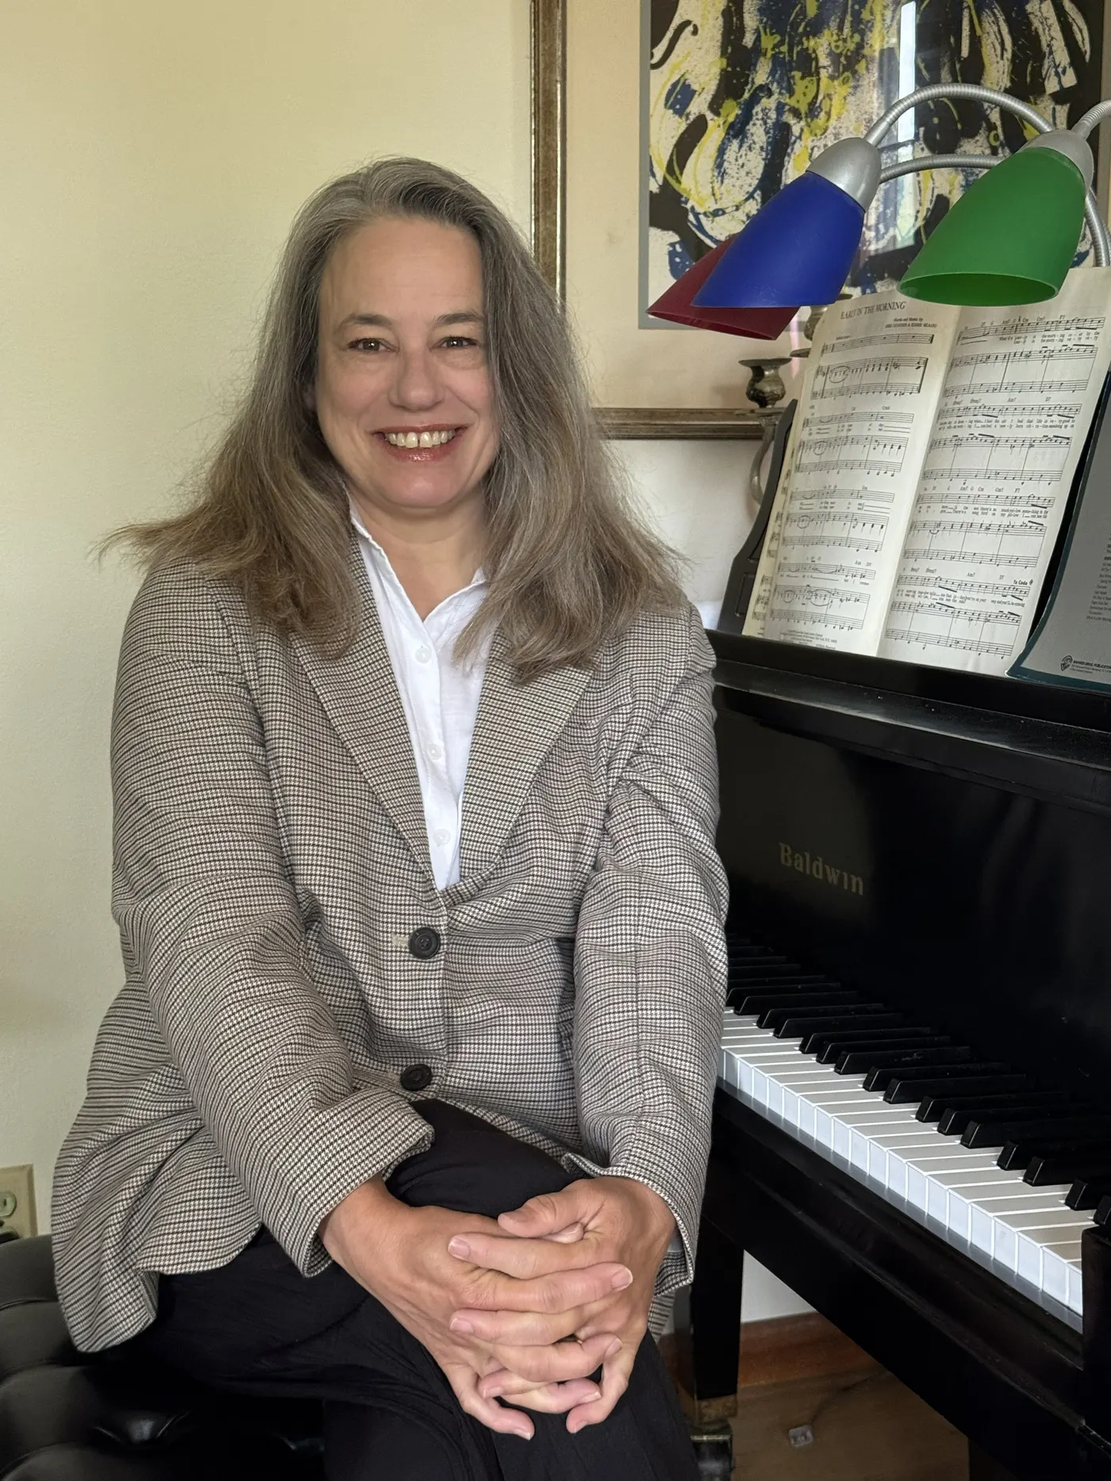
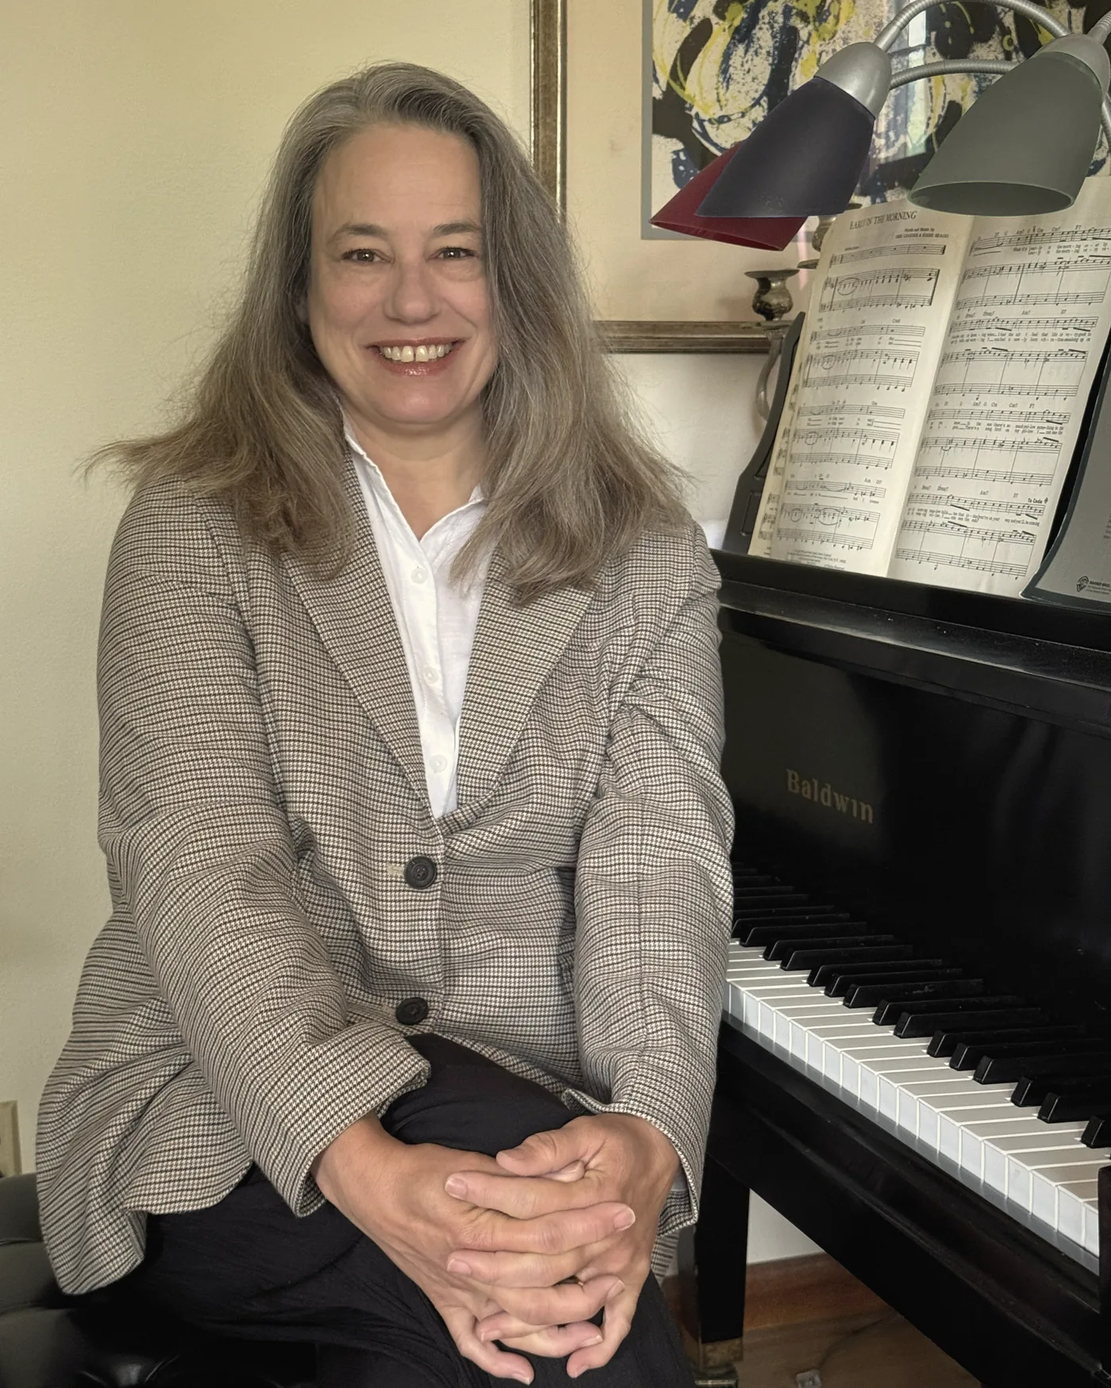
Premium, mature typography; calmer headings; graded photos
- Cormorant Garamond 500 (sentence case, italic accent phrase) + Jost for text/UI
- Headings smaller and lighter; they flow as sentences and sit in 2–3 lines (measured)
- Fix clipped descenders/italics: reveal masks get breathing room
- Accent colour comes from the italic class only (split-line clones broke nth-child rules)
- scripts/grade-photos.py: mutes the lamps behind Lisa, warm grade, better crops,
  2x upscale for the video stills; regraded portrait and posters

Claude-Session: https://claude.ai/code/session_01HKM1nU3q4pWCU1c7UDQXLL

diff --git a/src/styles/type.css b/src/styles/type.css
@@ -1,11 +1,10 @@
 /* ─────────────────────────── type system ───────────────────────────
-   From the client's references:
-   · DISPLAY  Fraunces 800, SOFT 100 — heavy, rounded serif, sentence case ("gorgeous")
-   · ACCENT   Fraunces italic 500, WONK on — the elegant italic line ("beautiful")
-   · TEXT/UI  Bricolage Grotesque — bold, characterful grotesk ("Antarctica")
-   · LABEL    Bricolage 500, small capitals, wide tracking ("BATANGAS") */
+   Cormorant Garamond 500 for headings — graceful, mature, never shouted:
+   sentence case, modest sizes, generous leading so headings sit in 2–3 lines
+   and nothing (descenders, italic swashes) is ever clipped. The accent phrase
+   of each heading is in Cormorant italic. Jost for everything you read and tap. */
 
-body { font-family: var(--sans); font-weight: 400; letter-spacing: -.01em; font-variation-settings: 'opsz' 14; }
+body { font-family: var(--sans); font-weight: 400; letter-spacing: 0; font-size: clamp(1.02rem, .98rem + .2vw, 1.12rem); }
 em, i, cite { font-style: normal; }
 
 /* DISPLAY */
@@ -13,66 +12,68 @@ em, i, cite { font-style: normal; }
 .timer__time, .metro__bpm span, .stat dd, .finale__beat, .menu__key, .pkey__meter, .foot__giant,
 .aud__name, .wcard__t, .first__after-t, .recital__after p, .timer__done-t, .marquee__i, .brand__name, .foot__wm,
 .programme__t strong, .lisa__quote, .string__note, .mini__l, .aud__n, .bar__n, .programme__n, .inquire__steps li > span, .offer__t {
-  font-family: var(--serif); font-weight: 800; font-style: normal; font-stretch: normal;
-  font-variation-settings: var(--soft); text-transform: none; letter-spacing: -.03em;
+  font-family: var(--serif); font-weight: 500; font-style: normal; font-stretch: normal;
+  font-variation-settings: normal; text-transform: none; letter-spacing: -.01em; font-variant-numeric: lining-nums;
 }
-.display { line-height: .95; }
-.hero__title { font-size: clamp(3.4rem, 1.4rem + 7.2vw, 9.2rem); line-height: .92; max-width: none; }
-.finale__t { font-size: clamp(3.2rem, 1.2rem + 5.6vw, 7.2rem); line-height: .94; max-width: 12ch; }
-.display--l { font-size: clamp(2.8rem, 1.3rem + 4.6vw, 6.2rem); line-height: .95; }
-.display--m { font-size: clamp(2.4rem, 1.2rem + 3.4vw, 4.8rem); line-height: .98; }
-.jcap__t { font-size: clamp(2.6rem, 1.3rem + 4vw, 5.6rem); line-height: .94; }
-.about__statement { font-size: clamp(2.1rem, 1.1rem + 3.3vw, 4.6rem); line-height: 1; max-width: 24ch; font-weight: 700; }
+/* headings flow as sentences (2–3 lines) instead of one phrase per line */
+.hl__line { display: inline; }
+.display { line-height: 1.08; text-wrap: balance; }
+.hero__title { font-size: clamp(2.8rem, 1.5rem + 4.4vw, 6.4rem); line-height: 1.04; max-width: 12ch; }
+.finale__t { font-size: clamp(2.6rem, 1.4rem + 3.8vw, 5.4rem); line-height: 1.06; max-width: 13ch; }
+.display--l { font-size: clamp(2.3rem, 1.4rem + 2.9vw, 4.4rem); line-height: 1.08; max-width: 18ch; }
+.display--m { font-size: clamp(2.1rem, 1.3rem + 2.3vw, 3.6rem); line-height: 1.1; max-width: 18ch; }
+.recital__head .display, .why__head .display { max-width: 22ch; }
+.jcap__t { font-size: clamp(2.2rem, 1.4rem + 2.6vw, 4.2rem); line-height: 1.08; }
+.about__statement { font-size: clamp(1.9rem, 1.2rem + 2.1vw, 3.3rem); line-height: 1.16; max-width: 32ch; }
 
-/* the accent line of every heading: the elegant italic */
-.hl__line.is-italic { font-style: italic; font-weight: 500; font-variation-settings: var(--soft-italic); letter-spacing: -.02em; color: var(--ochre-display); }
+/* the accent phrase */
+.hl__line.is-italic { font-style: italic; font-weight: 500; letter-spacing: -.005em; color: var(--ochre-display); }
 .sec--dark .hl__line.is-italic, .sec--black .hl__line.is-italic, .pcard .hl__line.is-italic { color: var(--gold); }
-.sec--wine .hl__line.is-italic { color: var(--black); opacity: .78; }
+.sec--wine .hl__line.is-italic { color: var(--black); opacity: .8; }
 
-.mpanel__n { font-size: clamp(5rem, 10vw, 9rem); line-height: .82; }
-.mpanel__t { font-size: clamp(1.9rem, 3vw, 3rem); line-height: 1; }
-.pcard__name { font-size: clamp(2.2rem, 3.4vw, 3.4rem); line-height: .98; }
-.mstep__q { font-size: clamp(2.2rem, 3.8vw, 3.6rem); line-height: 1; }
-.mresult__name { font-size: clamp(2.2rem, 3.6vw, 3.4rem); line-height: 1; }
-.timer__time { font-size: clamp(4.4rem, 8vw, 7rem); line-height: .85; font-variant-numeric: lining-nums tabular-nums; }
-.metro__bpm span { font-size: 4rem; line-height: .9; display: block; }
-.stat dd { font-size: clamp(3rem, 4.6vw, 4.4rem); line-height: .9; }
-.finale__beat { font-size: clamp(1.7rem, 2.8vw, 2.7rem); }
-.finale__beat span:nth-child(2) { font-style: italic; font-weight: 500; font-variation-settings: var(--soft-italic); }
-.menu__key { font-size: clamp(2.4rem, 10vw, 3.4rem); line-height: 1.05; }
-.pkey__meter { font-size: 2.2rem; }
-.aud__name, .wcard__t { font-size: clamp(1.5rem, 2vw, 2rem); line-height: 1.02; font-weight: 700; }
-.offer__t { font-size: 1.15rem; line-height: 1.2; font-weight: 700; letter-spacing: -.015em; }
-.first__after-t, .recital__after p, .timer__done-t { font-size: clamp(1.6rem, 2.4vw, 2.3rem); line-height: 1.05; font-style: italic; font-weight: 500; font-variation-settings: var(--soft-italic); }
-.programme__t strong { font-size: 1.5rem; line-height: 1; }
-.lisa__quote { font-size: clamp(1.6rem, 2.3vw, 2.2rem); line-height: 1.1; font-style: italic; font-weight: 500; font-variation-settings: var(--soft-italic); }
-.aud__n, .bar__n, .programme__n, .inquire__steps li > span { font-size: 1.2rem; font-style: italic; font-weight: 500; font-variation-settings: var(--soft-italic); color: var(--ochre); }
+.mpanel__n { font-size: clamp(4.2rem, 8vw, 7rem); line-height: .9; }
+.mpanel__t { font-size: clamp(1.9rem, 2.6vw, 2.6rem); line-height: 1.1; }
+.pcard__name { font-size: clamp(2rem, 2.8vw, 2.8rem); line-height: 1.05; }
+.mstep__q { font-size: clamp(2rem, 3vw, 3rem); line-height: 1.1; }
+.mresult__name { font-size: clamp(2rem, 3vw, 2.9rem); line-height: 1.08; }
+.timer__time { font-size: clamp(4rem, 7vw, 6.2rem); line-height: .95; font-variant-numeric: lining-nums tabular-nums; }
+.metro__bpm span { font-size: 3.8rem; line-height: 1; display: block; }
+.stat dd { font-size: clamp(2.8rem, 4vw, 3.8rem); line-height: 1; }
+.finale__beat { font-size: clamp(1.6rem, 2.4vw, 2.3rem); }
+.finale__beat span:nth-child(2) { font-style: italic; }
+.menu__key { font-size: clamp(2.2rem, 9vw, 3rem); line-height: 1.15; }
+.pkey__meter { font-size: 2rem; }
+.aud__name, .wcard__t { font-size: clamp(1.5rem, 1.9vw, 1.9rem); line-height: 1.12; font-weight: 600; }
+.offer__t { font-size: 1.3rem; line-height: 1.2; font-weight: 600; letter-spacing: 0; }
+.first__after-t, .recital__after p, .timer__done-t { font-size: clamp(1.6rem, 2.2vw, 2.1rem); line-height: 1.15; font-style: italic; }
+.programme__t strong { font-size: 1.5rem; line-height: 1.1; font-weight: 600; }
+.lisa__quote { font-size: clamp(1.6rem, 2.2vw, 2.1rem); line-height: 1.22; font-style: italic; }
+.aud__n, .bar__n, .programme__n, .inquire__steps li > span { font-size: 1.3rem; font-style: italic; color: var(--ochre); }
 .sec--dark .aud__n, .sec--black .programme__n { color: var(--gold); }
-.mini__l { font-size: 1.4rem; }
+.mini__l { font-size: 1.4rem; font-weight: 600; }
 .string__note { font-size: 2.4rem; }
-/* marquee alternates "gorgeous" and "beautiful" */
-.marquee__i:nth-child(4n+3) { font-style: italic; font-weight: 500; font-variation-settings: var(--soft-italic); }
+.marquee__i:nth-child(4n+3) { font-style: italic; }
 
-/* wordmark: heavy serif name over a widely spaced label, like the references */
-.brand__name { font-size: 1.5rem; line-height: .9; letter-spacing: -.025em; }
-.brand__desc { margin-top: 5px; font-size: 8.5px; font-weight: 500; letter-spacing: .38em; }
-.foot__wm { font-size: 2.4rem; letter-spacing: -.03em; }
-.foot__wm span { letter-spacing: .38em; }
+/* wordmark */
+.brand__name { font-size: 1.6rem; line-height: .9; letter-spacing: .01em; font-weight: 600; }
+.brand__desc { margin-top: 6px; font-size: 8.5px; font-weight: 500; letter-spacing: .36em; }
+.foot__wm { font-size: 2.6rem; letter-spacing: .01em; font-weight: 600; }
+.foot__wm span { letter-spacing: .36em; }
 
-/* TITLE — UI headings in the grotesk */
+/* TITLE — UI-level headings in Jost */
 .pkey__name, .lid__q, .bar__q, .mopt > span, .hero__watch-t, .mkey__name, .inquiry__chosen strong, .trust dd,
 .inquiry__ok, .pcard__short, .metro__term, .pcard__amt {
-  font-family: var(--sans); font-weight: 600; font-style: normal; font-stretch: normal; letter-spacing: -.015em; font-variation-settings: normal; text-transform: none;
+  font-family: var(--sans); font-weight: 500; font-style: normal; font-stretch: normal; letter-spacing: 0; font-variation-settings: normal; text-transform: none;
 }
-.lid__q, .bar__q { font-size: clamp(1.08rem, 1.3vw, 1.25rem); }
-.mopt > span { font-size: clamp(1.05rem, 1.3vw, 1.2rem); }
-.mkey__name { font-size: clamp(.95rem, 1.2vw, 1.15rem); }
-.pkey__name { font-size: 1.15rem; }
-.trust dd { font-size: 1rem; }
+.lid__q, .bar__q { font-size: clamp(1.08rem, 1.3vw, 1.22rem); }
+.mopt > span { font-size: clamp(1.05rem, 1.3vw, 1.18rem); }
+.mkey__name { font-size: clamp(.95rem, 1.2vw, 1.12rem); }
+.pkey__name { font-size: 1.12rem; }
+.trust dd { font-size: 1.02rem; }
 .pcard__short { color: var(--gold); }
-.metro__term { text-transform: uppercase; letter-spacing: .12em; font-size: .8rem; }
+.metro__term { text-transform: uppercase; letter-spacing: .14em; font-size: .78rem; }
 
-/* LABEL — small wide capitals */
+/* LABEL — small wide capitals (labels only; never headings) */
 .kicker, .kicker__t, .trust dt, .markers dt, .stat dt, .pcard__facts dt, .pcard__meter, .pcard__unit, .mpanel__lisa > span:first-child,
 .mkey__n, .jcap__n, .matcher__count, .mresult__k, .mresult__sum, .tool__t, .chip, .metro__bpm small, .first__prompt, .first__hint,
 .tool__note, .audiences__t, .lisa__cap, .packages__foot, .inquiry__chosen span, .ff > span, .ff legend,
@@ -80,16 +81,21 @@ em, i, cite { font-style: normal; }
 .screen__label, .screen__play, .hero__cue, .review, .mini kbd, .brand__desc, .wcard__n, .why__media figcaption {
   font-family: var(--sans); font-stretch: normal; font-variation-settings: normal; font-variant-numeric: tabular-nums; font-style: normal;
 }
-.kicker { font-weight: 500; letter-spacing: .2em; font-size: .74rem; }
+.kicker { font-weight: 500; letter-spacing: .18em; font-size: .74rem; }
 .trust dt, .markers dt, .pcard__facts dt, .inquire__contact dt, .foot__contact dt, .ff > span, .ff legend, .tool__t, .audiences__t,
 .mpanel__lisa > span:first-child, .mresult__k, .first__prompt, .lisa__cap, .hero__watch-t small,
 .mkey__n, .jcap__n, .matcher__count, .wcard__n, .pcard__meter, .metro__bpm small, .menu__n, .chip {
-  font-weight: 500; letter-spacing: .16em;
+  font-weight: 500; letter-spacing: .14em;
 }
 .first__hint, .tool__note, .packages__foot, .mresult__sum, .screen__label, .foot__base, .menu__contact { font-weight: 400; letter-spacing: 0; }
-.lede { font-family: var(--sans); font-weight: 400; letter-spacing: -.015em; font-size: clamp(1.02rem, .95rem + .3vw, 1.2rem); line-height: 1.55; }
-.lisa__bio { font-size: clamp(1rem, .95rem + .25vw, 1.15rem); }
+.lede { font-family: var(--sans); font-weight: 400; letter-spacing: 0; font-size: clamp(1.05rem, .98rem + .3vw, 1.22rem); line-height: 1.6; }
+.lisa__bio { font-size: clamp(1.02rem, .98rem + .25vw, 1.15rem); line-height: 1.7; }
 
 /* buttons */
-.btn { font-family: var(--sans); font-weight: 600; letter-spacing: .1em; text-transform: uppercase; font-size: .78rem; }
-.btn--line { letter-spacing: .1em; }
+.btn { font-family: var(--sans); font-weight: 500; letter-spacing: .12em; text-transform: uppercase; font-size: .78rem; }
+.btn--line { letter-spacing: .12em; }
+
+/* Reveal masks (SplitText) must never crop descenders or italic overhangs:
+   give each mask breathing room and take it back with negative margins. */
+[class$='-mask'], .m-line { padding: .08em .12em .2em; margin: -.08em -.12em -.2em; }
+@media (max-width: 760px) { .about__statement { font-size: 1.55rem; line-height: 1.2; } }

diff --git a/src/styles/header.css b/src/styles/header.css
@@ -14,7 +14,7 @@
 .roll { position: relative; display: block; height: 22px; overflow: hidden; }
 .roll__a, .roll__b { display: flex; align-items: center; height: 22px; white-space: nowrap; transition: transform .55s cubic-bezier(.7, 0, .2, 1); }
 .roll__a { font-size: 11.5px; font-weight: 500; letter-spacing: .16em; text-transform: uppercase; opacity: .78; }
-.roll__b { font-family: var(--serif); font-style: italic; font-weight: 500; font-variation-settings: var(--soft-italic); font-size: 16px; line-height: 1; padding-bottom: 2px; letter-spacing: -.01em; color: var(--ochre); }
+.roll__b { font-family: var(--serif); font-style: italic; font-weight: 500; font-size: 18px; line-height: 1; padding-bottom: 2px; letter-spacing: -.01em; color: var(--ochre); }
 .nav.is-dark .roll__b { color: var(--gold); }
 .navkey:hover .roll__a, .navkey:hover .roll__b, .navkey:focus-visible .roll__a, .navkey:focus-visible .roll__b,
 .nav__cta:hover .roll__a, .nav__cta:hover .roll__b, .nav__cta:focus-visible .roll__a, .nav__cta:focus-visible .roll__b { transform: translateY(-100%); }
@@ -57,12 +57,12 @@
 .marquee { position: relative; z-index: 2; overflow: hidden; background: var(--mustard); color: var(--black); padding: clamp(14px, 2vw, 24px) 0; border-block: 1px solid var(--mustard-edge); }
 .marquee__track { display: flex; width: max-content; will-change: transform; }
 .marquee__run { display: flex; align-items: center; flex: none; }
-.marquee__i { padding-inline: clamp(18px, 2.4vw, 36px); font-size: clamp(2.6rem, 5.8vw, 6rem); line-height: 1; white-space: nowrap; }
+.marquee__i { padding-inline: clamp(18px, 2.4vw, 36px); font-size: clamp(2.4rem, 5vw, 5.2rem); line-height: 1.1; white-space: nowrap; }
 .marquee__note { width: .5em; height: .36em; font-size: clamp(2.4rem, 5.4vw, 5.6rem); border-radius: 50%; background: var(--black); transform: rotate(-20deg); flex: none; }
 
 /* ─────────────────────────── giant footer wordmark ─────────────────────────── */
 .foot__giant {
-  margin-top: 70px; font-size: clamp(5rem, 21vw, 22rem); line-height: .78; letter-spacing: -.01em; white-space: nowrap;
+  margin-top: 70px; font-size: clamp(5rem, 19vw, 20rem); line-height: .9; font-style: italic; letter-spacing: -.01em; white-space: nowrap;
   color: var(--ivory); overflow: hidden; text-align: center;
 }
 .foot__giant .char { display: inline-block; }

diff --git a/src/styles/base.css b/src/styles/base.css
@@ -1,6 +1,7 @@
-@import '@fontsource-variable/fraunces/full.css';
-@import '@fontsource-variable/fraunces/full-italic.css';
-@import '@fontsource-variable/bricolage-grotesque/standard.css';
+@import '@fontsource/cormorant-garamond/latin-500.css';
+@import '@fontsource/cormorant-garamond/latin-500-italic.css';
+@import '@fontsource/cormorant-garamond/latin-600.css';
+@import '@fontsource-variable/jost/wght.css';
 
 /* ─────────────────────────── tokens ─────────────────────────── */
 :root {
@@ -20,13 +21,13 @@
   --line-dark: rgba(241, 237, 230, .16);
   --line-light: rgba(20, 19, 18, .16);
 
-  /* Display: a heavy, soft serif ("gorgeous") with an elegant italic for accent
-     words ("beautiful"). Text & UI: a characterful bold grotesk ("Antarctica"). */
-  --serif: 'Fraunces Variable', 'Iowan Old Style', Georgia, serif;
-  --sans: 'Bricolage Grotesque Variable', 'Helvetica Neue', Arial, sans-serif;
-  --mono: 'Bricolage Grotesque Variable', 'Helvetica Neue', Arial, sans-serif;
-  --soft: 'SOFT' 100, 'WONK' 0, 'opsz' 144;
-  --soft-italic: 'SOFT' 60, 'WONK' 1, 'opsz' 144;
+  /* Display: Cormorant Garamond — a refined, graceful Garamond with a beautiful
+     italic (concert-programme elegance). Text & UI: Jost — clean and very legible. */
+  --serif: 'Cormorant Garamond', 'Garamond', 'Times New Roman', serif;
+  --sans: 'Jost Variable', 'Futura', 'Helvetica Neue', Arial, sans-serif;
+  --mono: 'Jost Variable', 'Futura', 'Helvetica Neue', Arial, sans-serif;
+  --soft: normal;
+  --soft-italic: normal;
 
   --gutter: clamp(16px, 4vw, 56px);
   --max: 1600px;

diff --git a/src/styles/sections.css b/src/styles/sections.css
@@ -6,7 +6,6 @@
 }
 .hero__copy { align-self: end; padding-bottom: clamp(28px, 5vh, 56px); }
 .hero__title { max-width: 11ch; margin-bottom: clamp(22px, 3vw, 34px); }
-.hero__title .hl__line:nth-child(3) { color: var(--ochre-display); }
 .hero__sub { max-width: 40ch; color: color-mix(in srgb, currentColor 86%, transparent); margin-bottom: 32px; }
 .hero__ctas { display: flex; flex-wrap: wrap; align-items: center; gap: 18px 30px; }
 .hero__trust { position: relative; padding-bottom: 26px; }
@@ -311,7 +310,6 @@
 /* ═══════════════════════════ 12 FINALE ═══════════════════════════ */
 .finale { position: relative; min-height: 120svh; display: flex; align-items: flex-end; padding: calc(var(--nav-h) + 8vh) 0 clamp(60px, 12vh, 140px); }
 .finale__t { font-size: var(--step-5); margin-bottom: 36px; max-width: 9ch; }
-.finale__t .hl__line:nth-child(2) { color: var(--ochre-display); }
 .finale__ctas { display: flex; flex-wrap: wrap; gap: 16px 28px; align-items: center; }
 
 .inquire__grid { display: grid; grid-template-columns: 5fr 6fr; gap: clamp(40px, 6vw, 110px); align-items: start; }

diff --git a/src/templates.js b/src/templates.js
@@ -29,7 +29,7 @@ function lines(v, italic = []) {
   const draftCls = REVIEW && isSlot(v) && v.__slot === 'draft' ? ' slot-draft slot-draft--block' : '';
   const note = REVIEW && v?.note ? ` data-note="${esc(v.note)}"` : '';
   return `<span class="hl${draftCls}"${note}>${arr.map((l, i) =>
-    `<span class="hl__line${italic.includes(i) ? ' is-italic' : ''}">${esc(l)}</span>`).join('')}</span>`;
+    `<span class="hl__line${italic.includes(i) ? ' is-italic' : ''}">${esc(l)}</span>`).join(' ')}</span>`;
 }
 
 /** Image slot → <img> when verified, labelled placeholder frame otherwise. */

diff --git a/scripts/grade-photos.py b/scripts/grade-photos.py
@@ -1,0 +1,66 @@
+"""Consistent photo treatment for the site (run: python3 -I scripts/grade-photos.py <src_dir>).
+
+<src_dir> must hold the originals from Lisa's site: portrait.jpg, and frames
+v1_12.jpg, v1_25.jpg, v2_60.jpg (extracted from video1/video2 with ffmpeg).
+Writes WebP files into public/media/.
+"""
+import sys
+import numpy as np
+from PIL import Image, ImageFilter
+
+src = sys.argv[1]
+OUT = 'public/media/'
+
+def grade(im, mute_cool=0.25, vignette=0.22):
+    a = np.asarray(im.convert('RGB')).astype(np.float32) / 255.0
+    # 1) mute saturated blues/greens (lamps, painting) — skin, wood, ivory untouched
+    hsv = np.asarray(im.convert('RGB').convert('HSV')).astype(np.float32) / 255.0
+    h, s = hsv[..., 0] * 360, hsv[..., 1]
+    cool = ((h > 75) & (h < 300)).astype(np.float32) * np.clip((s - 0.18) / 0.3, 0, 1)
+    lum = (0.2126 * a[..., 0] + 0.7152 * a[..., 1] + 0.0722 * a[..., 2])[..., None]
+    k = (cool * (1 - mute_cool))[..., None]
+    a = a * (1 - k) + (lum * np.array([1.02, 0.99, 0.94])) * k
+    # 2) gentle overall desaturation + warm tone (towards the site's greige/ochre)
+    lum = (0.2126 * a[..., 0] + 0.7152 * a[..., 1] + 0.0722 * a[..., 2])[..., None]
+    a = lum + (a - lum) * 0.9
+    a = a * np.array([1.035, 1.0, 0.94])
+    # 3) soft S-curve and lifted blacks (filmic, never crushed)
+    a = np.clip(a, 0, 1)
+    a = a + 0.10 * (a - a * a) * (2 * a - 1) * -1 + 0.025 * (1 - a)
+    # 4) subtle vignette
+    hh, ww = a.shape[:2]
+    yy, xx = np.mgrid[0:hh, 0:ww]
+    d = np.sqrt(((xx - ww / 2) / (ww / 2)) ** 2 + ((yy - hh / 2) / (hh / 2)) ** 2) / 1.414
+    a = a * (1 - vignette * np.clip(d - 0.35, 0, 1) ** 1.6)[..., None]
+    return Image.fromarray((np.clip(a, 0, 1) * 255).astype(np.uint8))
+
+def upscale(im, f=2):
+    im = im.resize((im.width * f, im.height * f), Image.LANCZOS)
+    return im.filter(ImageFilter.UnsharpMask(radius=2, percent=90, threshold=2))
+
+def crop_ratio(im, rx, ry, cx=0.5, cy=0.5, scale=1.0):
+    """Largest rx:ry crop (times scale), centred on (cx, cy) as fractions."""
+    w, h = im.size
+    cw = min(w, h * rx / ry) * scale
+    ch = cw * ry / rx
+    x0 = int(np.clip(cx * w - cw / 2, 0, w - cw)); y0 = int(np.clip(cy * h - ch / 2, 0, h - ch))
+    return im.crop((x0, y0, x0 + int(cw), y0 + int(ch)))
+
+# Lisa: 4:5, a touch tighter, head kept clear of the top edge
+p = Image.open(f'{src}/portrait.jpg')
+p = crop_ratio(p, 4, 5, cx=0.5, cy=0.52, scale=0.97)
+p = grade(p, mute_cool=0.1, vignette=0.18)
+for w in (720, 1400):
+    p.resize((w, int(w * 5 / 4)), Image.LANCZOS).save(f'{OUT}lisa-{w}.webp', quality=82, method=6)
+
+# Dexter on stage: crop to performer + piano, upscale, grade
+d = Image.open(f'{src}/v2_60.jpg')
+d = crop_ratio(d, 16, 10, cx=0.56, cy=0.52, scale=0.86)
+upscale(grade(d, vignette=0.28)).save(f'{OUT}dexter-poster.webp', quality=84, method=6)
+
+# Wynnton: lose most of the altar cloth, focus on piano + player
+for name, frame, cx, cy, sc in (('wynnton-poster', 'v1_25', 0.5, 0.45, 1.0), ('wynnton-still', 'v1_12', 0.48, 0.42, 0.78)):
+    im = Image.open(f'{src}/{frame}.jpg')
+    im = crop_ratio(im, 16, 9 if name.endswith('poster') else 11, cx=cx, cy=cy, scale=sc)
+    upscale(grade(im, vignette=0.26)).save(f'{OUT}{name}.webp', quality=84, method=6)
+print('graded:', 'lisa-720/1400, dexter-poster, wynnton-poster, wynnton-still')

diff --git a/README.md b/README.md
@@ -47,9 +47,11 @@ To finish the site: replace each `fact()` with `ok(…)`, approve or rewrite eac
 ## Design system
 
 - **Palette** (from the reference poster): greige `#e5e0d8`, surface `#f1ede6`, ink `#141312`, mustard `#c9971b`, ochre `#7a5806` / `#9a7008` for accent text (contrast-checked).
-- **Type** (from the client's references): headlines in **Fraunces** at heavy weight with its soft setting ("gorgeous"), with an elegant Fraunces italic for each heading's accent line ("beautiful"). Text, labels and buttons are in **Bricolage Grotesque** ("Antarctica"), with labels in small, widely spaced capitals. Both fonts are free; they are set by `--serif` and `--sans` in `src/styles/base.css`.
+- **Type:** headings in **Cormorant Garamond** 500, in sentence case. They're modest in size so they sit in 2–3 lines, and each heading's accent phrase is in Cormorant italic. Text, labels and buttons are in **Jost**, with body text at about 17px for easy reading. The aim is a graceful, mature, premium feel. Fonts are set by `--serif` and `--sans` in `src/styles/base.css`.
 - **Layout:** 1600px content width, with Lenis smooth scrolling (`src/lib/smooth.js`; off under reduced motion).
 - **Header:** minimal. On hover, each link rolls its label up into the same word in the italic serif, and a small mustard note head glides underneath it (and rests under the current section). There's a text-only sound toggle and a pill-shaped "Start lessons" button that rolls the same way. A frosted backing keeps it legible over the 3D piano.
+
+- **Photos:** `scripts/grade-photos.py` gives all photos one treatment. It mutes the loud blue and green lamps behind Lisa, applies a warm grade, crops, and upscales the low-resolution video stills 2×. Re-run it if the source images change.
 
 ## Technical notes
 
